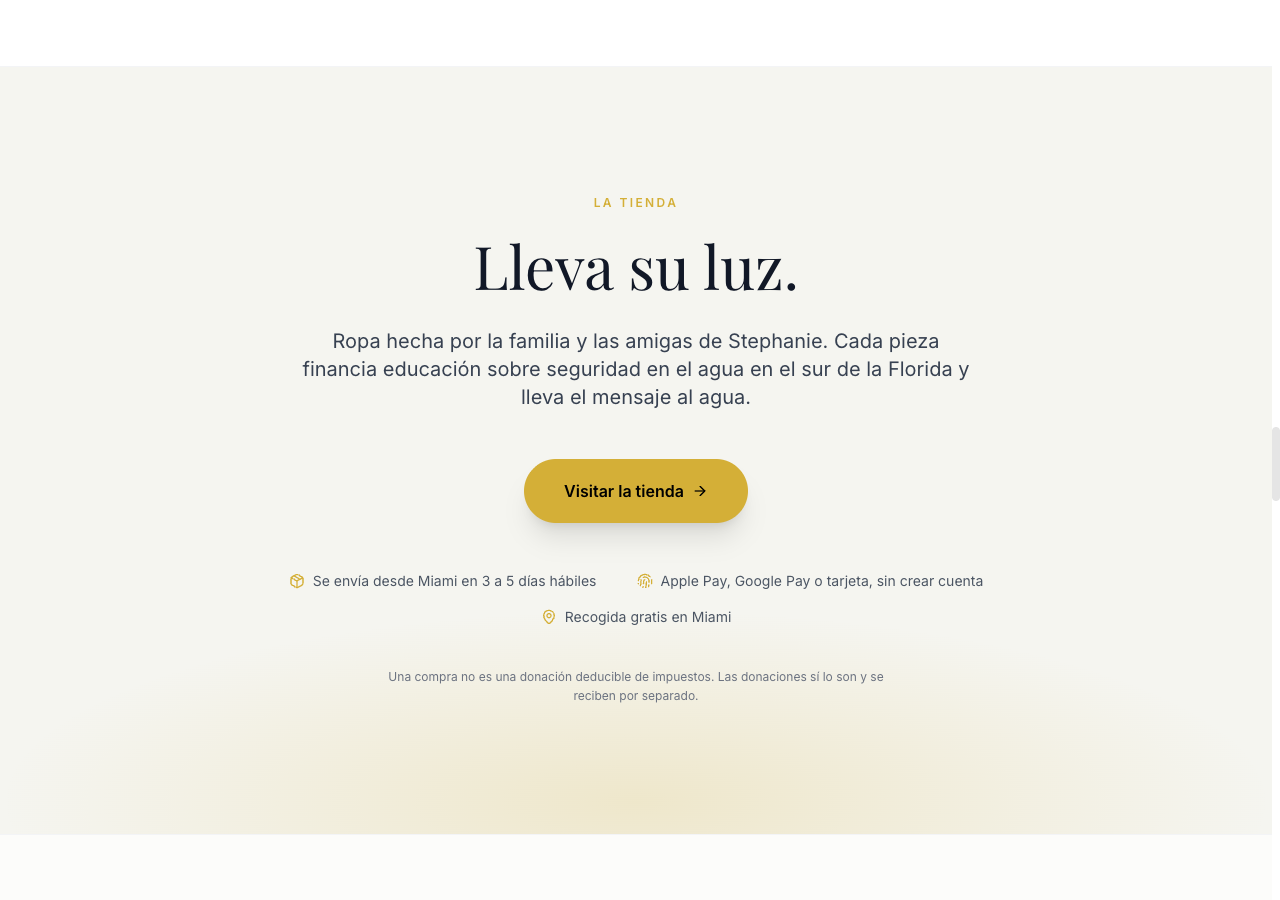
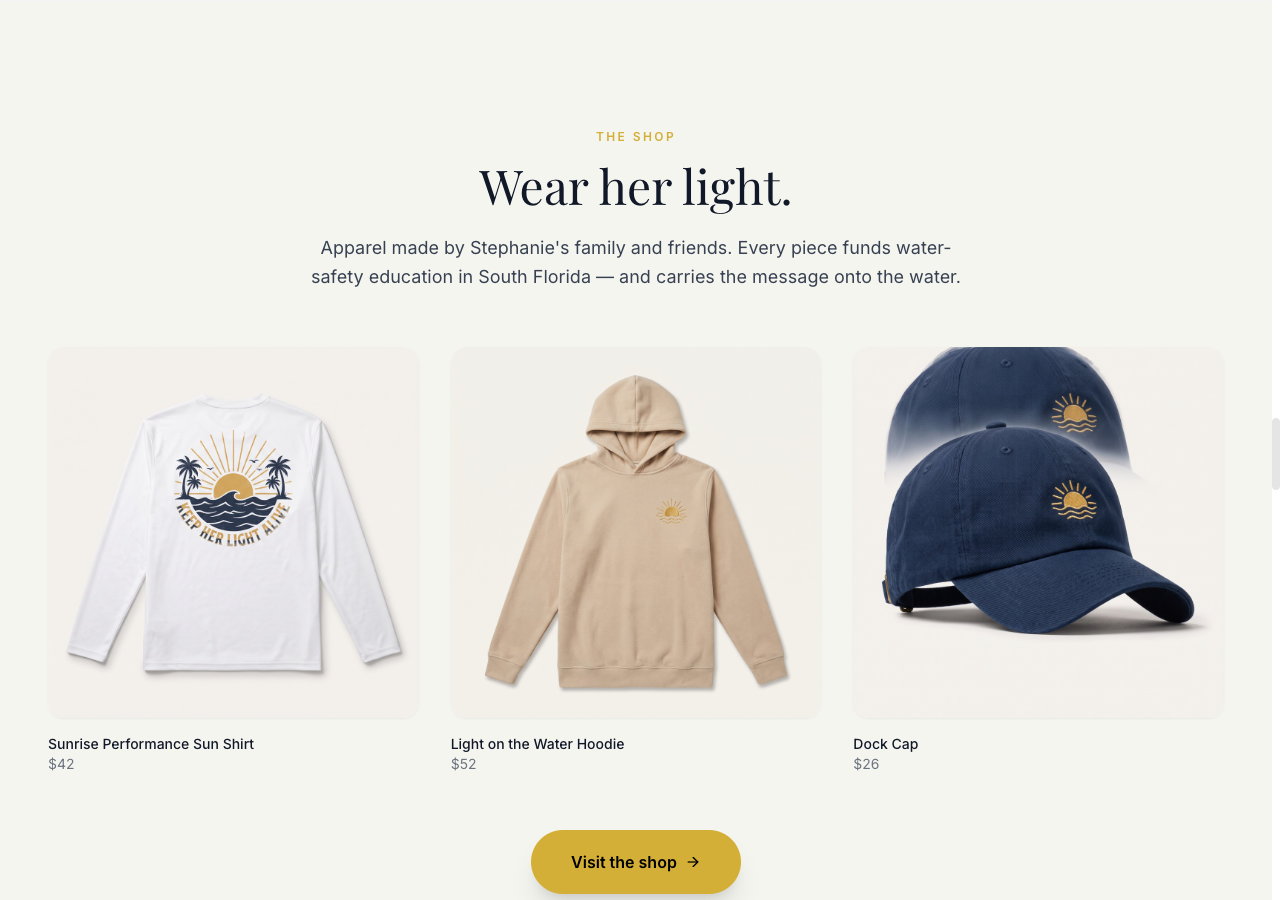
feat(shop): real product imagery + homepage merchandising block
Products are long-sleeve UPF 50+ performance sun shirts with a large
gold-sunrise back print (per client reference), not blank cotton tees:
- generated six product/lifestyle comps with Higgsfield (nano-banana):
  white + navy sun shirt flat-lays, colorway lineup on dock wood, worn shot
  at a Miami marina at golden hour, hoodie, cap
- catalog reworked: Sunrise Performance Sun Shirt ($42, hero), Light on the
  Water Hoodie ($52), Dock Cap ($26, restocked); coin remains unsold
- homepage shop section rebuilt as a merchandising block: three product
  cards with real photos + price, gold CTA, reassurances, fine print

Imagery is AI-generated placeholder standing in for real photography —
documented as such in docs/shop-design-spine.md.

diff --git a/website/index.html b/website/index.html
@@ -650,46 +650,79 @@
         <!-- EVENTS: Upcoming & Past -->
         <!-- EVENTS: Coming Soon -->
         <!-- SHOP -->
-        <section id="shop" class="py-32 bg-brand-sand px-6 lg:px-12 border-t border-gray-100 relative overflow-hidden">
-            <!-- sunrise motif: the brand's own mark, as light rather than an image -->
-            <div class="pointer-events-none absolute inset-x-0 -bottom-40 h-96 bg-[radial-gradient(closest-side,rgba(212,175,55,0.20),transparent)]"
-                aria-hidden="true"></div>
+        <section id="shop" class="py-24 md:py-32 bg-brand-sand px-6 lg:px-12 border-t border-gray-100">
+            <div class="max-w-[1400px] mx-auto">
 
-            <div class="max-w-3xl mx-auto text-center relative">
-                <span class="text-brand-gold font-sans text-xs font-bold tracking-[0.2em] uppercase mb-6 block"
-                    data-i18n="shop.label">The Shop</span>
-                <h2 class="font-serif text-4xl md:text-6xl text-gray-900 mb-8 leading-[1.1]"
-                    data-i18n="shop.title">Wear her light.</h2>
-                <p class="text-lg md:text-xl text-gray-700 leading-relaxed mb-12 max-w-2xl mx-auto"
-                    data-i18n="shop.body">
-                    Apparel made by Stephanie's family and friends. Every piece funds water-safety education in
-                    South Florida &mdash; and carries the message onto the water.
-                </p>
-
-                <a href="../shop-prototype/index.html" data-shop-link
-                    class="inline-flex items-center gap-2 px-10 py-5 bg-brand-gold text-black font-bold rounded-full hover:bg-white hover:scale-105 transition-all duration-300 shadow-xl">
-                    <span data-i18n="shop.cta">Visit the shop</span>
-                    <i data-lucide="arrow-right" class="w-4 h-4"></i>
-                </a>
-
-                <div class="flex flex-wrap justify-center gap-x-10 gap-y-4 mt-12 text-sm text-gray-600">
-                    <span class="inline-flex items-start sm:items-center gap-2 text-left">
-                        <i data-lucide="package" class="w-4 h-4 mt-[3px] sm:mt-0 text-brand-gold shrink-0"></i>
-                        <span data-i18n="shop.point1">Ships from Miami in 3&ndash;5 business days</span>
-                    </span>
-                    <span class="inline-flex items-start sm:items-center gap-2 text-left">
-                        <i data-lucide="fingerprint" class="w-4 h-4 mt-[3px] sm:mt-0 text-brand-gold shrink-0"></i>
-                        <span data-i18n="shop.point2">Apple Pay, Google Pay, or card &mdash; no account needed</span>
-                    </span>
-                    <span class="inline-flex items-start sm:items-center gap-2 text-left">
-                        <i data-lucide="map-pin" class="w-4 h-4 mt-[3px] sm:mt-0 text-brand-gold shrink-0"></i>
-                        <span data-i18n="shop.point3">Free local pickup in Miami</span>
-                    </span>
+                <div class="max-w-2xl mx-auto text-center mb-14">
+                    <span class="text-brand-gold font-sans text-xs font-bold tracking-[0.2em] uppercase mb-4 block"
+                        data-i18n="shop.label">The Shop</span>
+                    <h2 class="font-serif text-4xl md:text-5xl text-gray-900 mb-6 leading-tight"
+                        data-i18n="shop.title">Wear her light.</h2>
+                    <p class="text-lg text-gray-700 leading-relaxed" data-i18n="shop.body">
+                        Apparel made by Stephanie's family and friends. Every piece funds water-safety education in
+                        South Florida &mdash; and carries the message onto the water.
+                    </p>
                 </div>
 
-                <p class="text-xs text-gray-500 mt-10 max-w-lg mx-auto leading-relaxed" data-i18n="shop.note">
-                    A purchase is not a tax-deductible donation. Donations are, and are receipted separately.
-                </p>
+                <div class="grid grid-cols-2 lg:grid-cols-3 gap-4 md:gap-8 mb-14">
+                    <a href="../shop-prototype/index.html" data-shop-link class="group block">
+                        <div class="aspect-square rounded-2xl overflow-hidden bg-white mb-4 shadow-sm group-hover:shadow-xl transition-shadow duration-300">
+                            <img src="resources/shop/sunshirt-white.jpg"
+                                alt="White long-sleeve UPF 50+ sun shirt with the gold sunrise back print"
+                                class="w-full h-full object-cover group-hover:scale-105 transition-transform duration-500"
+                                loading="lazy" width="1000" height="1000">
+                        </div>
+                        <p class="text-sm font-medium text-gray-900" data-i18n="shop.item1">Sunrise Performance Sun Shirt</p>
+                        <p class="text-sm text-gray-500">$42</p>
+                    </a>
+                    <a href="../shop-prototype/index.html" data-shop-link class="group block">
+                        <div class="aspect-square rounded-2xl overflow-hidden bg-white mb-4 shadow-sm group-hover:shadow-xl transition-shadow duration-300">
+                            <img src="resources/shop/hoodie-sand.jpg"
+                                alt="Sand-colored fleece hoodie with the embroidered gold sunrise"
+                                class="w-full h-full object-cover group-hover:scale-105 transition-transform duration-500"
+                                loading="lazy" width="1000" height="1000">
+                        </div>
+                        <p class="text-sm font-medium text-gray-900" data-i18n="shop.item2">Light on the Water Hoodie</p>
+                        <p class="text-sm text-gray-500">$52</p>
+                    </a>
+                    <a href="../shop-prototype/index.html" data-shop-link class="group block col-span-2 lg:col-span-1">
+                        <div class="aspect-square rounded-2xl overflow-hidden bg-white mb-4 shadow-sm group-hover:shadow-xl transition-shadow duration-300">
+                            <img src="resources/shop/cap-navy.jpg"
+                                alt="Navy cotton cap with the embroidered gold sunrise"
+                                class="w-full h-full object-cover group-hover:scale-105 transition-transform duration-500"
+                                loading="lazy" width="1000" height="1000">
+                        </div>
+                        <p class="text-sm font-medium text-gray-900" data-i18n="shop.item3">Dock Cap</p>
+                        <p class="text-sm text-gray-500">$26</p>
+                    </a>
+                </div>
+
+                <div class="text-center">
+                    <a href="../shop-prototype/index.html" data-shop-link
+                        class="inline-flex items-center gap-2 px-10 py-5 bg-brand-gold text-black font-bold rounded-full hover:bg-white hover:scale-105 transition-all duration-300 shadow-xl">
+                        <span data-i18n="shop.cta">Visit the shop</span>
+                        <i data-lucide="arrow-right" class="w-4 h-4"></i>
+                    </a>
+
+                    <div class="flex flex-wrap justify-center gap-x-8 gap-y-3 mt-10 text-sm text-gray-600">
+                        <span class="inline-flex items-start sm:items-center gap-2 text-left">
+                            <i data-lucide="package" class="w-4 h-4 mt-[3px] sm:mt-0 text-brand-gold shrink-0"></i>
+                            <span data-i18n="shop.point1">Ships from Miami in 3&ndash;5 business days</span>
+                        </span>
+                        <span class="inline-flex items-start sm:items-center gap-2 text-left">
+                            <i data-lucide="fingerprint" class="w-4 h-4 mt-[3px] sm:mt-0 text-brand-gold shrink-0"></i>
+                            <span data-i18n="shop.point2">Apple Pay, Google Pay, or card &mdash; no account needed</span>
+                        </span>
+                        <span class="inline-flex items-start sm:items-center gap-2 text-left">
+                            <i data-lucide="map-pin" class="w-4 h-4 mt-[3px] sm:mt-0 text-brand-gold shrink-0"></i>
+                            <span data-i18n="shop.point3">Free local pickup in Miami</span>
+                        </span>
+                    </div>
+
+                    <p class="text-xs text-gray-500 mt-8 max-w-lg mx-auto leading-relaxed" data-i18n="shop.note">
+                        A purchase is not a tax-deductible donation. Donations are, and are receipted separately.
+                    </p>
+                </div>
             </div>
         </section>
 

diff --git a/shop-prototype/index.html b/shop-prototype/index.html
@@ -73,7 +73,7 @@
       <div class="grid grid-cols-2 md:grid-cols-4 gap-4 lg:gap-6 items-end reveal">
         <figure class="rounded-2xl overflow-hidden aspect-[3/4] md:translate-y-6"><img src="assets/event-walk.jpg" alt="Families at the memorial walk at golden hour" class="w-full h-full object-cover" loading="lazy"></figure>
         <figure class="rounded-2xl overflow-hidden aspect-[3/4] md:-translate-y-4"><img src="assets/event-safety.jpg" alt="A life-jacket fitting at a community safety day" class="w-full h-full object-cover" loading="lazy"></figure>
-        <figure class="rounded-2xl overflow-hidden aspect-[3/4] md:translate-y-10"><img src="assets/coins-shared.jpg" alt="Memorial coins laid out to be shared" class="w-full h-full object-cover" loading="lazy"></figure>
+        <figure class="rounded-2xl overflow-hidden aspect-[3/4] md:translate-y-10"><img src="assets/product-sunshirt-worn.jpg" alt="A supporter wearing the sun shirt on a Miami dock at sunrise" class="w-full h-full object-cover" loading="lazy"></figure>
         <figure class="rounded-2xl overflow-hidden aspect-[3/4]"><img src="assets/magaly-stephanie.jpg" alt="Magaly and Stephanie together" class="w-full h-full object-cover" loading="lazy"></figure>
       </div>
     </div>

diff --git a/website/translations.js b/website/translations.js
@@ -19,6 +19,9 @@ const translations = {
         'shop.point1': 'Ships from Miami in 3\u20135 business days',
         'shop.point2': 'Apple Pay, Google Pay, or card \u2014 no account needed',
         'shop.point3': 'Free local pickup in Miami',
+        'shop.item1': 'Sunrise Performance Sun Shirt',
+        'shop.item2': 'Light on the Water Hoodie',
+        'shop.item3': 'Dock Cap',
         'shop.cta': 'Visit the shop',
         'shop.note': 'A purchase is not a tax-deductible donation. Donations are, and are receipted separately.',
 
@@ -181,6 +184,9 @@ const translations = {
         'shop.point1': 'Se env\u00eda desde Miami en 3 a 5 d\u00edas h\u00e1biles',
         'shop.point2': 'Apple Pay, Google Pay o tarjeta, sin crear cuenta',
         'shop.point3': 'Recogida gratis en Miami',
+        'shop.item1': 'Camisa Solar de Rendimiento Amanecer',
+        'shop.item2': 'Sudadera Luz sobre el Agua',
+        'shop.item3': 'Gorra del Muelle',
         'shop.cta': 'Visitar la tienda',
         'shop.note': 'Una compra no es una donaci\u00f3n deducible de impuestos. Las donaciones s\u00ed lo son y se reciben por separado.',
 

diff --git a/website/cms.js b/website/cms.js
@@ -21,7 +21,7 @@
       '    title url resourceType sourceLabel\n' +
       '  }\n' +
       '  events(\n' +
-      '    where: { startDateTime_gte: $now, isPublic: true }\n' +
+      '    where: { startDateTime_gte: $now, OR: [{ isPublic: true }, { isPublic: null }] }\n' +
       '    orderBy: startDateTime_ASC\n' +
       '    stage: PUBLISHED\n' +
       '  ) {\n' +

diff --git a/docs/shop-design-spine.md b/docs/shop-design-spine.md
@@ -66,8 +66,9 @@ The full EN/ES sheet is `shop-prototype/shared/shop.js` (`STR`), ~110 keys. **Sp
 
 | Item | Requirement | Owner | PRD ref |
 |---|---|---|---|
-| Photos | ≥3 per product: front flat-lay, back, worn by a real community member. Square, ≥1200×1200, <300KB, same crop and warm light across the catalog. Alt text authored in Hygraph. | Founders + photographer | §18 |
-| Coin photos | Existing `coin-front/back-final.png` have a baked-in checkerboard; the shop masks them to a circle. Re-export with true transparency before launch. | Developer | — |
+| Photos | ≥3 per product: back print flat-lay, worn, colorway lineup. Square, ≥1200×1200, <300KB, same crop and warm light across the catalog. Alt text authored in Hygraph. | Founders + photographer | §18 |
+| **Current imagery is AI-generated placeholder** | Every product image in `shop-prototype/assets/product-*.jpg` and `website/resources/shop/*.jpg` was generated with Higgsfield (nano-banana) to show the intended product category — long-sleeve UPF 50+ performance sun shirts with a gold-sunrise back print. **These are comps, not products.** Replace with photography of the real garments before launch, and do not use them in any ad, email, or listing that implies stock on hand. | Developer → founders | — |
+| Coins | **Not sold.** The coin stays a free-request program on the main site. If it ever becomes a gift-with-purchase, that is a fulfillment rule, not a catalog entry. | Founders | — |
 | Size chart | Garment measurements in inches **and** centimeters; model height + size worn. | Supplier + founders | §18 |
 | Fabric, fit, care | One line each. | Founders | §18 |
 | Story paragraph | 2–3 sentences, why this design exists, tied to the mission. Required. | Founders | §18, §20.3 |
